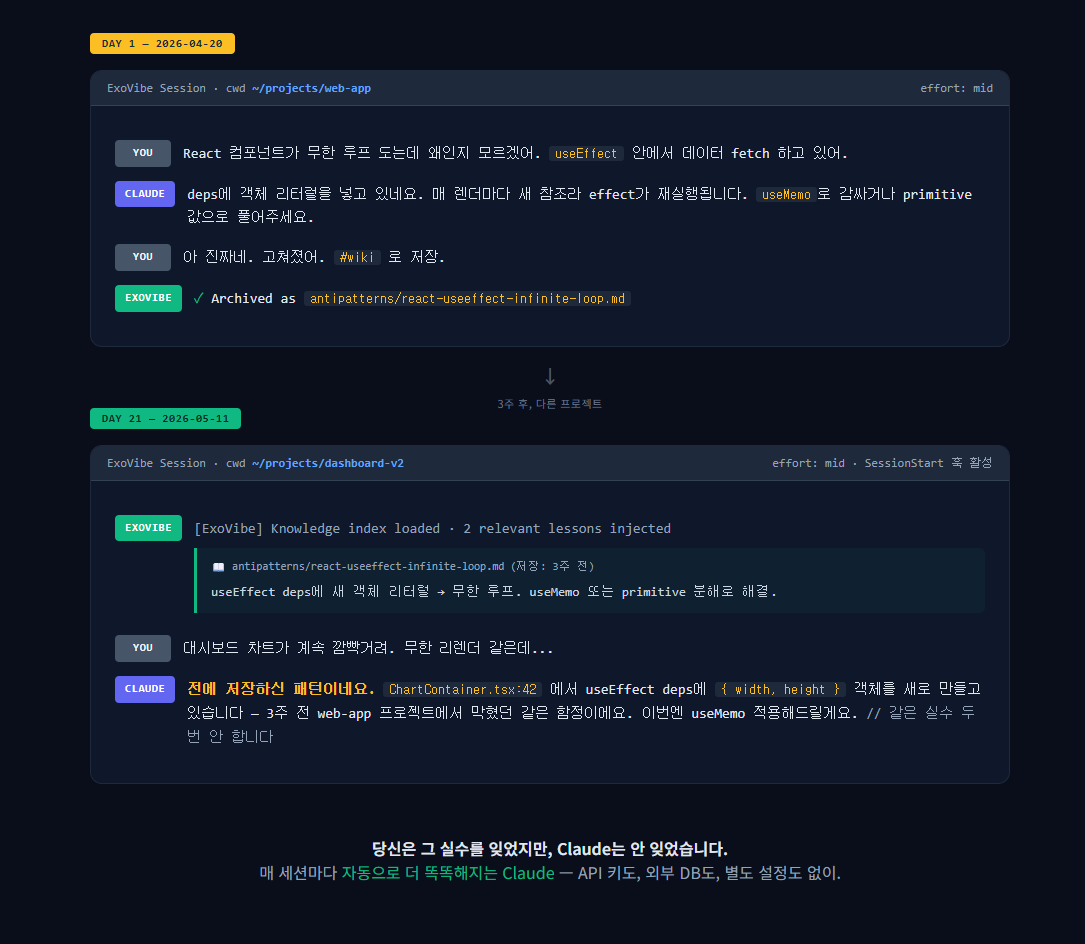
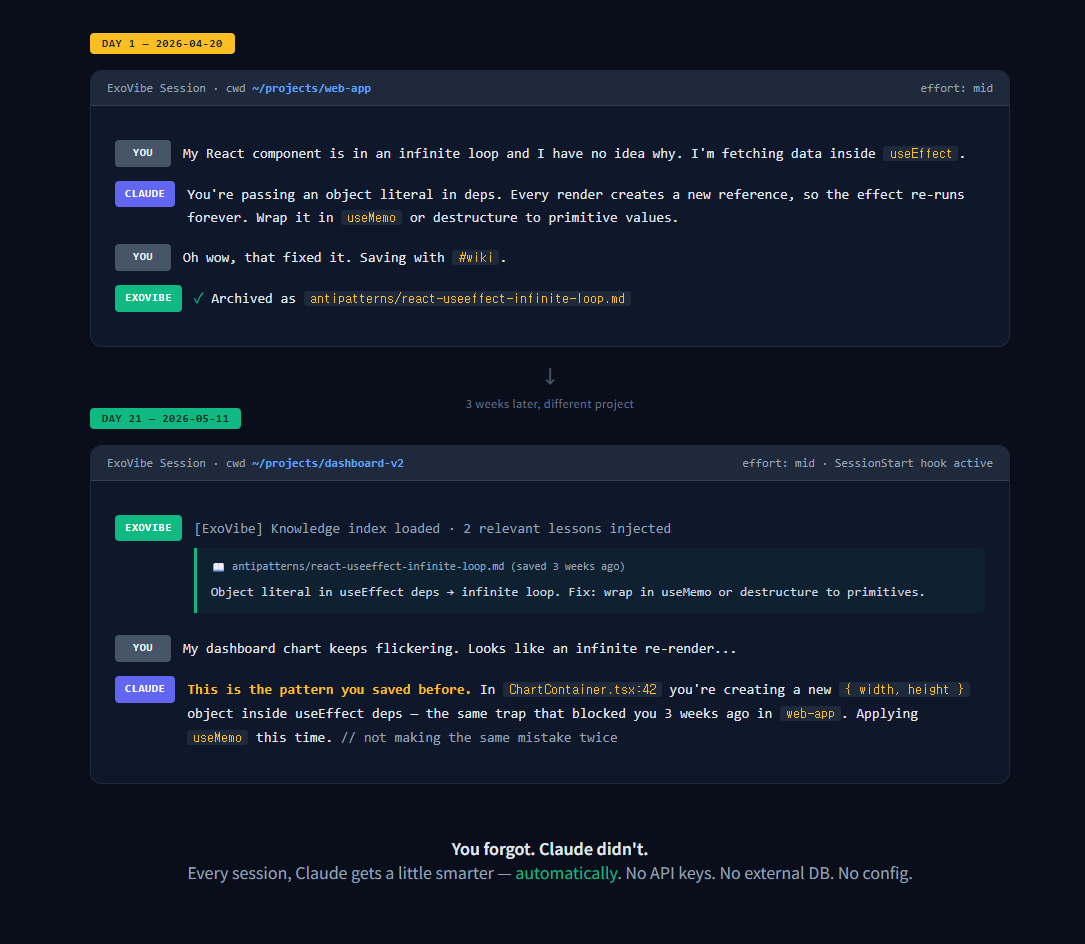
i18n: claude-remembers 목업 영문 변환 (글로벌 심사자 대응)
해커톤 심사자/방문자 대부분이 영어권이라 README 상단 핵심 목업을
한글에서 영문으로 교체. 메시지 내용은 동일하지만 더 직관적으로 다듬음.

- docs/mockups/conversation-replay.html: 모든 텍스트 영문화
- docs/images/claude-remembers.png: 영문 버전으로 재캡처
- 핵심 카피:
  * "You forgot. Claude didn't."
  * "Every session, Claude gets a little smarter — automatically."
  * "This is the pattern you saved before."
  * "// not making the same mistake twice"

diff --git a/docs/mockups/conversation-replay.html b/docs/mockups/conversation-replay.html
@@ -1,5 +1,5 @@
 <!doctype html>
-<html lang="ko">
+<html lang="en">
 <head>
 <meta charset="utf-8">
 <title>Claude remembers — ExoVibe</title>
@@ -13,7 +13,6 @@
   }
   .wrap { max-width: 920px; margin: 0 auto; }
 
-  /* 데이 1 패널 */
   .session {
     background: #0f172a; border: 1px solid #1e293b; border-radius: 12px;
     margin-bottom: 24px; overflow: hidden;
@@ -26,7 +25,6 @@
   .session-header .pid { color: #60a5fa; font-weight: 600; }
   .body { padding: 20px 24px; font-size: 14px; line-height: 1.7; }
 
-  /* 메시지 */
   .msg { margin: 14px 0; display: flex; gap: 12px; align-items: flex-start; }
   .msg .who {
     font-weight: 700; font-size: 11px; text-transform: uppercase;
@@ -84,15 +82,15 @@
     <div class="body">
       <div class="msg">
         <div class="who user">YOU</div>
-        <div class="text">React 컴포넌트가 무한 루프 도는데 왜인지 모르겠어. <code>useEffect</code> 안에서 데이터 fetch 하고 있어.</div>
+        <div class="text">My React component is in an infinite loop and I have no idea why. I'm fetching data inside <code>useEffect</code>.</div>
       </div>
       <div class="msg">
         <div class="who claude">CLAUDE</div>
-        <div class="text">deps에 객체 리터럴을 넣고 있네요. 매 렌더마다 새 참조라 effect가 재실행됩니다. <code>useMemo</code>로 감싸거나 primitive 값으로 풀어주세요.</div>
+        <div class="text">You're passing an object literal in deps. Every render creates a new reference, so the effect re-runs forever. Wrap it in <code>useMemo</code> or destructure to primitive values.</div>
       </div>
       <div class="msg">
         <div class="who user">YOU</div>
-        <div class="text">아 진짜네. 고쳐졌어. <code>#wiki</code> 로 저장.</div>
+        <div class="text">Oh wow, that fixed it. Saving with <code>#wiki</code>.</div>
       </div>
       <div class="msg">
         <div class="who exo">EXOVIBE</div>
@@ -106,7 +104,7 @@
 
   <div class="arrow">
     ↓
-    <span class="label">3주 후, 다른 프로젝트</span>
+    <span class="label">3 weeks later, different project</span>
   </div>
 
   <!-- DAY 21 -->
@@ -114,7 +112,7 @@
   <div class="session">
     <div class="session-header">
       <span>ExoVibe Session · cwd <span class="pid">~/projects/dashboard-v2</span></span>
-      <span>effort: mid · SessionStart 훅 활성</span>
+      <span>effort: mid · SessionStart hook active</span>
     </div>
     <div class="body">
       <div class="msg">
@@ -122,29 +120,29 @@
         <div class="text">
           <span style="color:#94a3b8">[ExoVibe] Knowledge index loaded · 2 relevant lessons injected</span>
           <div class="quote">
-            <div class="meta">📖 antipatterns/react-useeffect-infinite-loop.md (저장: 3주 전)</div>
-            useEffect deps에 새 객체 리터럴 → 무한 루프. useMemo 또는 primitive 분해로 해결.
+            <div class="meta">📖 antipatterns/react-useeffect-infinite-loop.md (saved 3 weeks ago)</div>
+            Object literal in useEffect deps → infinite loop. Fix: wrap in useMemo or destructure to primitives.
           </div>
         </div>
       </div>
       <div class="msg">
         <div class="who user">YOU</div>
-        <div class="text">대시보드 차트가 계속 깜빡거려. 무한 리렌더 같은데...</div>
+        <div class="text">My dashboard chart keeps flickering. Looks like an infinite re-render...</div>
       </div>
       <div class="msg">
         <div class="who claude">CLAUDE</div>
         <div class="text">
-          <strong style="color:#fbbf24">전에 저장하신 패턴이네요.</strong>
-          <code>ChartContainer.tsx:42</code> 에서 useEffect deps에 <code>{ width, height }</code> 객체를 새로 만들고 있습니다 — 3주 전 web-app 프로젝트에서 막혔던 같은 함정이에요.
-          이번엔 useMemo 적용해드릴게요. <span style="color:#94a3b8">// 같은 실수 두 번 안 합니다</span>
+          <strong style="color:#fbbf24">This is the pattern you saved before.</strong>
+          In <code>ChartContainer.tsx:42</code> you're creating a new <code>{ width, height }</code> object inside useEffect deps — the same trap that blocked you 3 weeks ago in <code>web-app</code>.
+          Applying <code>useMemo</code> this time. <span style="color:#94a3b8">// not making the same mistake twice</span>
         </div>
       </div>
     </div>
   </div>
 
   <div class="punch">
-    <strong>당신은 그 실수를 잊었지만, Claude는 안 잊었습니다.</strong><br>
-    매 세션마다 <span class="hl">자동으로 더 똑똑해지는 Claude</span> — API 키도, 외부 DB도, 별도 설정도 없이.
+    <strong>You forgot. Claude didn't.</strong><br>
+    Every session, Claude gets a little smarter — <span class="hl">automatically</span>. No API keys. No external DB. No config.
   </div>
 
 </div>